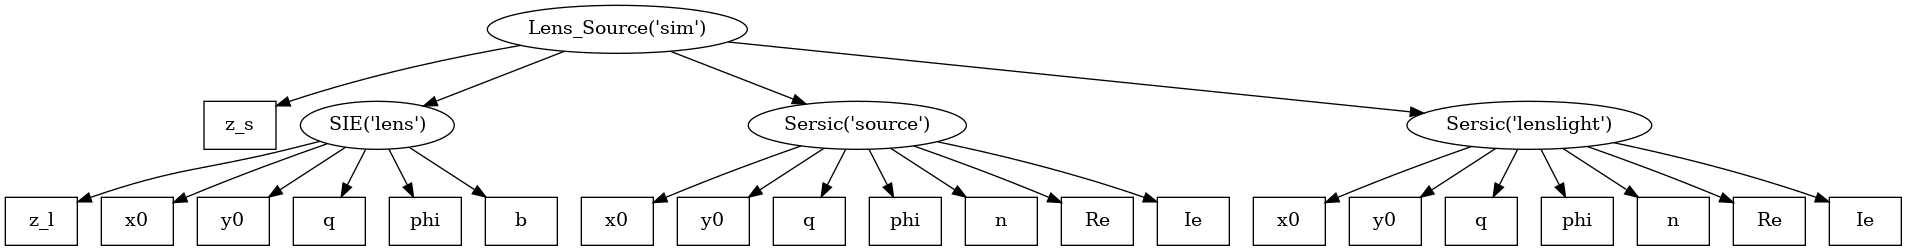
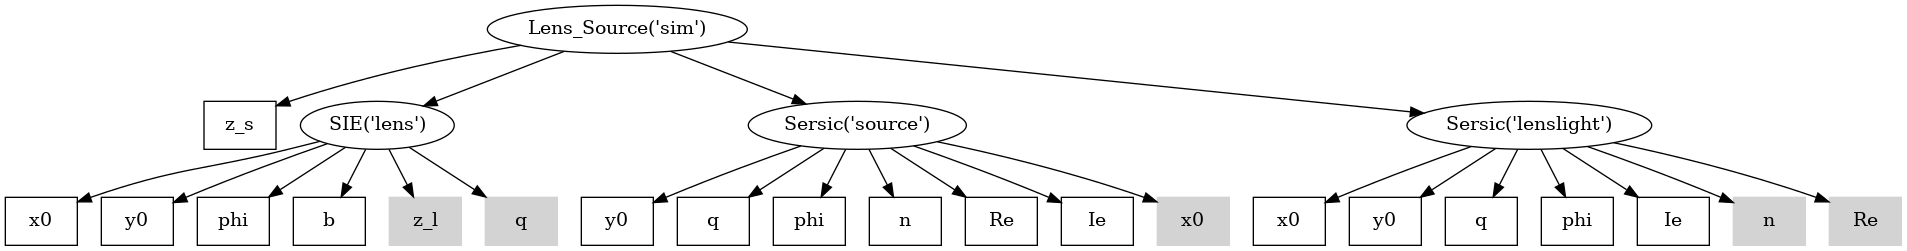
update graph fig

diff --git a/paper.md b/paper.md
@@ -245,7 +245,7 @@ investigate the structure of a simulator in the form of a directed acyclic graph
 of calculations. Note that one may also fix a subset of parameter values, making
 them "static" instead of the default which is "dynamic".
 
-![Example directed acyclic graph representation of the simulator from \autoref{fig:runtime}. Ellipses are objects and squares are parameters. Parameters are passed at the top level node (Lens_Source) and flow down the graph automatically to all other objects which require parameter values to complete a lensing simulation.](media/graph.png)
+![Example directed acyclic graph representation of the simulator from \autoref{fig:runtime}. Ellipses are objects and squares are parameters; open squares are dynamic parameters and greyed squares are static parameters. Parameters are passed at the top level node (Lens_Source) and flow down the graph automatically to all other objects which require parameter values to complete a lensing simulation.\label{fig:graph}](media/graph.png)
 
 Finally, there is the functional interface. The functional interface eschews the
 object oriented `caustics` code, instead giving the user access to individual
